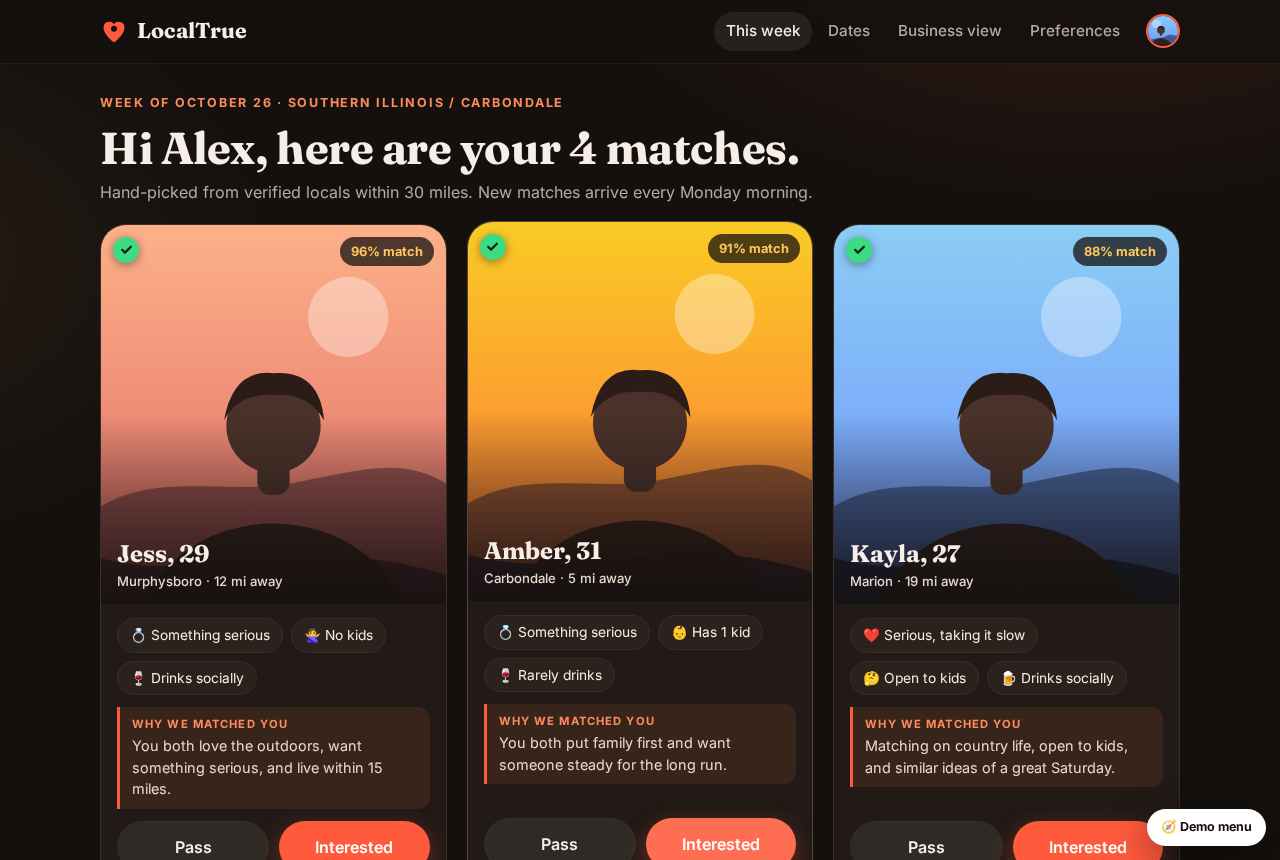
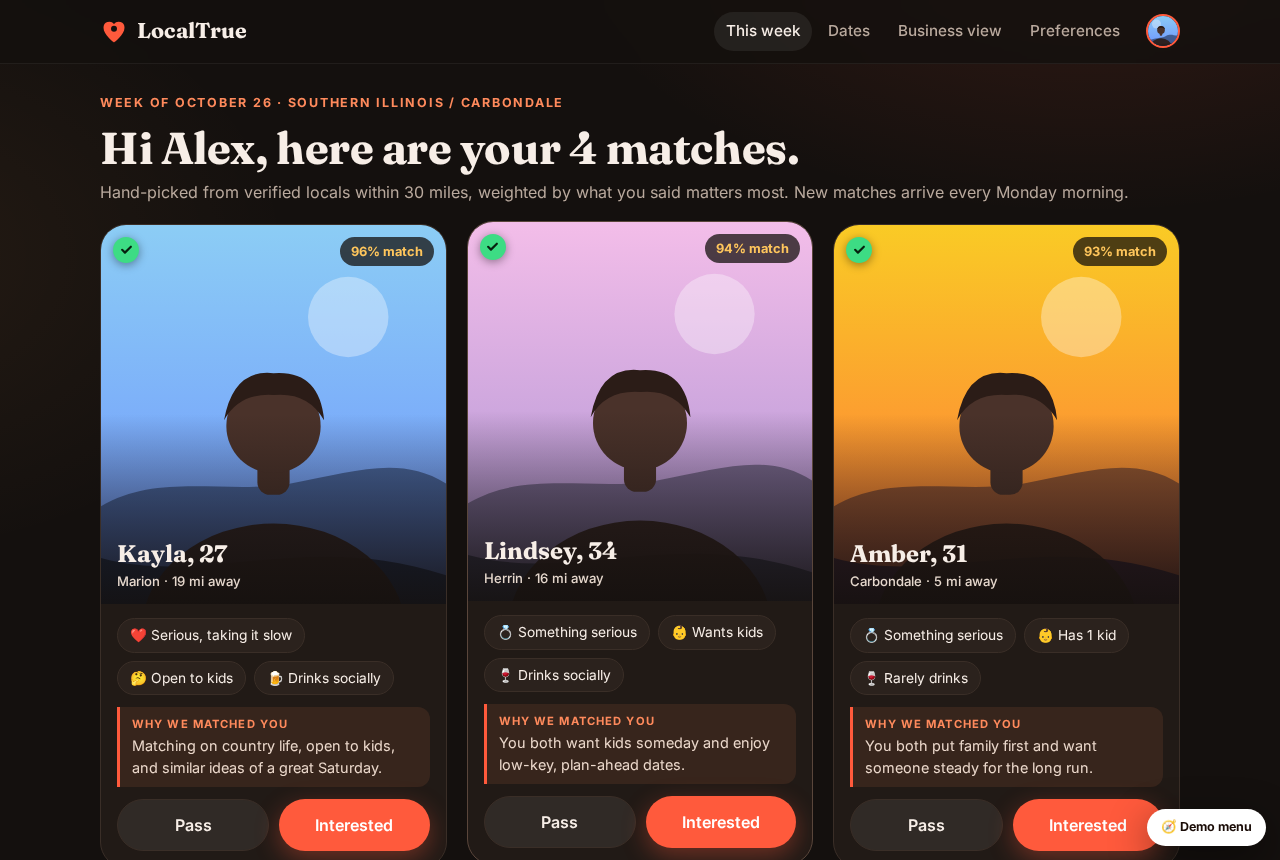
Add per-question importance (dealbreaker/very/somewhat/doesn't matter) with weighted scores

diff --git a/app.js b/app.js
@@ -127,7 +127,53 @@ const today=()=>{const n=new Date();return new Date(n.getFullYear(),n.getMonth()
 const me=()=>state.user.name||'Alex';
 const other=()=>person(state.date.withId)||PEOPLE.find(p=>p.g===state.user.interested)||PEOPLE[0];
 const myPhoto=()=>photo(7,1);
-const matchList=()=>PEOPLE.filter(p=>p.g===state.user.interested).sort((a,b)=>b.score-a.score);
+
+const ATTR={jess:{looking:'serious',kids:'none',faith:'spiritual',drinking:'social',smoking:'never'},
+ amber:{looking:'serious',kids:'have',faith:'christian',drinking:'no',smoking:'never'},
+ kayla:{looking:'serious',kids:'open',faith:'christian',drinking:'social',smoking:'never'},
+ lindsey:{looking:'serious',kids:'want',faith:'any',drinking:'social',smoking:'never'},
+ tyler:{looking:'serious',kids:'none',faith:'christian',drinking:'social',smoking:'never'},
+ cody:{looking:'serious',kids:'open',faith:'christian',drinking:'social',smoking:'never'},
+ ben:{looking:'serious',kids:'have',faith:'spiritual',drinking:'no',smoking:'never'},
+ josh:{looking:'casual',kids:'open',faith:'any',drinking:'social',smoking:'occasional'}};
+PEOPLE.forEach(p=>{p.a=ATTR[p.id];});
+PEOPLE.find(p=>p.id==='josh').tags[0]='🙂 Casual, seeing where it goes';
+
+/* ---------- match importance engine ---------- */
+const IMP=[['deal','Dealbreaker'],['very','Very important'],['some','Somewhat'],['none',"Doesn't matter"]];
+const IMP_W={deal:4,very:3,some:1.5,none:0};
+const IMP_DEF={looking:'very',age:'very',distance:'some',kids:'some',faith:'some',drinking:'some',smoking:'some'};
+const Q_LABEL={looking:'What you want',age:'Age',distance:'Distance',kids:'Kids',faith:'Faith',drinking:'Drinking',smoking:'Smoking'};
+const imp=k=>((state.user.imp||{})[k])||IMP_DEF[k];
+const LABELS={looking:{serious:'Something serious',casual:'Casual dating',friends:'Friends first'},kids:{none:"Doesn't want kids",have:'Has kids',want:'Wants kids',open:'Open to kids'},faith:{any:'Open on faith',christian:'Christian',spiritual:'Spiritual',other:'Other faith',none:'Not religious'},drinking:{no:'Rarely drinks',social:'Drinks socially',often:'Drinks regularly'},smoking:{never:'Non-smoker',occasional:'Occasional smoker',yes:'Smoker'}};
+function compat(k,want,has){
+  if(want===has) return 1;
+  const M={
+   looking:{serious:{casual:.2,friends:.5},casual:{serious:.3,friends:.7},friends:{serious:.6,casual:.7}},
+   kids:{none:{have:0,want:0,open:.5},have:{none:0,want:.6,open:.9},want:{none:0,have:.6,open:.8},open:{none:.6,have:.9,want:.9}},
+   drinking:{no:{social:.5,often:0},social:{no:.6,often:.6},often:{no:0,social:.6}},
+   smoking:{never:{occasional:.35,yes:0},occasional:{never:.6,yes:.6},yes:{never:.2,occasional:.6}}};
+  if(k==='faith'){ if(want==='any'||has==='any') return 1; const pair=[want,has].sort().join(); return pair==='christian,spiritual'?.4:pair==='other,spiritual'?.5:0; }
+  return ((M[k]||{})[want]||{})[has]??0;
+}
+function scoreOf(p){
+  const u=state.user, rows=[];
+  const add=(k,c,mine,theirs)=>rows.push({k,c,imp:imp(k),mine,theirs});
+  add('looking',compat('looking',u.looking,p.a.looking),LABELS.looking[u.looking],LABELS.looking[p.a.looking]);
+  const ad=p.age<u.ageMin?u.ageMin-p.age:p.age>u.ageMax?p.age-u.ageMax:0;
+  add('age',ad===0?1:ad<=2?.5:0,`${u.ageMin}–${u.ageMax}`,`${p.age}`);
+  add('distance',p.dist<=u.distance?1:p.dist<=u.distance*1.3?.4:0,`within ${u.distance} mi`,`${p.dist} mi`);
+  ['kids','faith','drinking','smoking'].forEach(k=>add(k,compat(k,u[k],p.a[k===('kids')?'kids':k]),LABELS[k][u[k]]||'Not important',LABELS[k][p.a[k]]));
+  let w=0,t=0,blocked=[];
+  rows.forEach(r=>{const wt=IMP_W[r.imp]; if(r.imp==='deal'&&r.c<.5) blocked.push(r); w+=wt; t+=wt*r.c;});
+  const fit=w?t/w:1;
+  const score=Math.max(40,Math.min(99,Math.round(fit*72+p.score*.27)));
+  return {score,rows,blocked};
+}
+const matchAll=()=>PEOPLE.filter(p=>p.g===state.user.interested);
+const matchList=()=>matchAll().map(p=>({p,s:scoreOf(p)})).filter(x=>!x.s.blocked.length).sort((a,b)=>b.s.score-a.s.score).map(x=>x.p);
+const hiddenList=()=>matchAll().filter(p=>scoreOf(p).blocked.length);
+
 
 /* ---------- nav ---------- */
 function renderNav(route){
@@ -246,7 +292,9 @@ const OPT={
  faith:[['any','Not important'],['christian','Christian'],['spiritual','Spiritual'],['other','Other faith'],['none','Not religious']],
  drinking:[['no','Never'],['social','Socially'],['often','Regularly']],
  smoking:[['never','Never'],['occasional','Occasionally'],['yes','Yes']]};
-function optGroup(k,big){return `<div class="opts">${OPT[k].map(o=>`<button class="opt ${big?'big':''} ${state.user[k]===o[0]?'on':''}" data-act="pick" data-k="${k}" data-v="${o[0]}">${o[1]}${o[2]?`<small>${o[2]}</small>`:''}</button>`).join('')}</div>`;}
+const IMPS={deal:'Dealbreaker',very:'Very',some:'Somewhat',none:"Doesn't matter"};
+function impRow(k){const cur=imp(k);return `<div class="imp"><span class="lbl">How important is it that this matches?</span><div class="seg" role="group">${IMP.map(([v,l])=>`<button class="${cur===v?'on '+v:''}" data-act="imp" data-k="${k}" data-v="${v}">${v==='very'?'Very important':l}</button>`).join('')}</div></div>`;}
+function optGroup(k,big){return `<div class="opts">${OPT[k].map(o=>`<button class="opt ${big?'big':''} ${state.user[k]===o[0]?'on':''}" data-act="pick" data-k="${k}" data-v="${o[0]}">${o[1]}${o[2]?`<small>${o[2]}</small>`:''}</button>`).join('')}</div>${impRow(k)}`;}
 function pOnboard(){
   const u=state.user, st=ob.step, N=4;
   let b='';
@@ -256,11 +304,11 @@ function pOnboard(){
     <div class="q">I'm looking for…</div>${optGroup('looking',true)}`;
   if(st===2) b=`<h2 style="font-size:1.9rem">Age &amp; distance</h2>
     <div class="q">Age range <span class="bigval" id="ageout" style="margin-left:8px">${u.ageMin}–${u.ageMax}</span></div>
-    <div class="dual"><div class="track"></div><div class="fill" id="agefill"></div><input type="range" min="18" max="80" value="${u.ageMin}" id="ageMin"><input type="range" min="18" max="80" value="${u.ageMax}" id="ageMax"></div>
+    <div class="dual"><div class="track"></div><div class="fill" id="agefill"></div><input type="range" min="18" max="80" value="${u.ageMin}" id="ageMin"><input type="range" min="18" max="80" value="${u.ageMax}" id="ageMax"></div>${impRow('age')}
     <div class="q">Distance <span class="bigval" id="distout" style="margin-left:8px">${u.distance} mi</span></div>
-    <input type="range" min="5" max="100" step="5" value="${u.distance}" id="dist"><div class="small muted" style="margin-top:6px">Small-town friendly: most of your matches will be within 30 miles.</div>`;
+    <input type="range" min="5" max="100" step="5" value="${u.distance}" id="dist"><div class="small muted" style="margin-top:6px">Small-town friendly: most of your matches will be within 30 miles.</div>${impRow('distance')}`;
   if(st===3) b=`<h2 style="font-size:1.9rem">About you &amp; what matters</h2>
-    <div class="q">Kids</div>${optGroup('kids')}<div class="q">Faith</div>${optGroup('faith')}<div class="q">Drinking</div>${optGroup('drinking')}<div class="q">Smoking</div>${optGroup('smoking')}`;
+    <p class="muted small" style="margin-top:6px">Under each question, tell us how much it matters. <b style="color:var(--text)">Dealbreakers</b> hide people who don't fit; the rest weight your match scores.</p><div class="q">Kids</div>${optGroup('kids')}<div class="q">Faith</div>${optGroup('faith')}<div class="q">Drinking</div>${optGroup('drinking')}<div class="q">Smoking</div>${optGroup('smoking')}`;
   if(st===4) b=`<h2 style="font-size:1.9rem">Choose your region</h2><p class="muted" style="margin-top:6px">You'll be matched with verified people in this area. Regions marked soon let you join the waitlist.</p>
     <div class="grid" style="margin-top:18px;gap:10px">${REGIONS.map(r=>`<button class="region" style="${u.region===r.id?'border-color:var(--accent);background:rgba(255,90,60,.1)':''}" data-act="pick" data-k="region" data-v="${r.id}"><span class="dot" style="background:${r.status==='open'?'var(--green)':'var(--amber)'}"></span><span><span class="nm">${r.name}</span><br><span class="st">${r.towns}</span></span><span class="tag ${r.status==='open'?'open':'wl'}">${r.status==='open'?'Open now':'Waitlist'}</span></button>`).join('')}</div>`;
   return `<div class="auth"><div class="narrow" style="max-width:560px"><div class="progress">${Array.from({length:N},(_,i)=>`<i class="${st>i?'on':''}"></i>`).join('')}</div>
@@ -276,6 +324,13 @@ function bindOnboard(){
   if(d) d.oninput=()=>{state.user.distance=+d.value;$('#distout').textContent=d.value+' mi';save();};
 }
 
+function lineup(p){
+  const sc=scoreOf(p), mark=c=>c>=.85?['✓','ok']:c>=.5?['~','mid']:['✕','no'];
+  const rows=sc.rows.filter(r=>r.imp!=='none');
+  const skipped=sc.rows.filter(r=>r.imp==='none').map(r=>Q_LABEL[r.k]).join(', ');
+  return `<div class="psec"><h4>How you line up</h4><div class="lineup">${rows.map(r=>{const m=mark(r.c);return `<div class="lu ${m[1]}"><i>${m[0]}</i><div><b>${Q_LABEL[r.k]}</b><span class="small muted"> · you: ${esc(r.mine)} · ${esc(p.name)}: ${esc(r.theirs)}</span></div><em class="impt ${r.imp}">${IMPS[r.imp]}</em></div>`}).join('')}</div>${skipped?`<div class="small muted" style="margin-top:8px">Not counted (you said it doesn't matter): ${skipped}.</div>`:''}<a class="small accent" href="#/onboarding" style="display:inline-block;margin-top:8px">Change what matters to you →</a></div>`;
+}
+
 /* ---------- matches ---------- */
 function mCard(p){
   const sw=state.swipes[p.id], matched=state.matched[p.id];
@@ -283,7 +338,7 @@ function mCard(p){
     : sw==='interested'?`<div class="status int">❤ Interested · waiting on ${p.name}</div>`
     : sw==='pass'?`<div class="status pass">Passed</div>`
     : `<div class="acts"><button class="btn ghost" data-act="pass" data-id="${p.id}">Pass</button><button class="btn primary" data-act="like" data-id="${p.id}">Interested</button></div>`;
-  return `<article class="mcard"><a class="ph" href="#/profile/${p.id}"><img src="${photo(p.seed,0)}" alt="${p.name}">${vcheck}<span class="score">${p.score}% match</span><span class="nm">${p.name}, ${p.age}<small>${p.town} · ${p.dist} mi away</small></span></a>
+  return `<article class="mcard"><a class="ph" href="#/profile/${p.id}"><img src="${photo(p.seed,0)}" alt="${p.name}">${vcheck}<span class="score">${scoreOf(p).score}% match</span><span class="nm">${p.name}, ${p.age}<small>${p.town} · ${p.dist} mi away</small></span></a>
    <div class="bd"><div class="tagrow" style="margin:0">${p.tags.slice(0,3).map(t=>`<span class="chip">${t}</span>`).join('')}</div>
    <div class="why"><b>Why we matched you</b>${esc(p.why)}</div>${act}</div></article>`;
 }
@@ -295,7 +350,9 @@ function pMatches(){
     dt.stage==='proposed'?`<div class="banner"><div style="font-size:1.8rem">📅</div><div style="flex:1"><b>Date proposal in progress with ${esc(person(dt.withId).name)}</b></div><a class="btn primary sm" href="#/schedule">Open</a></div>`:'';
   const monday=new Date(today().getTime()-((today().getDay()+6)%7)*864e5).toLocaleDateString('en-US',{month:'long',day:'numeric'});
   return `<div class="wrap"><div class="pagehead"><div class="eyebrow">Week of ${monday} · ${esc(regionName(state.user.region))}</div>
-   <h2>Hi ${esc(me())}, here are your ${list.length} matches.</h2><p class="muted" style="margin-top:8px">Hand-picked from verified locals within ${state.user.distance} miles. New matches arrive every Monday morning.</p>${dateBanner}</div>
+   <h2>Hi ${esc(me())}, here ${list.length===1?'is your 1 match':'are your '+list.length+' matches'}.</h2><p class="muted" style="margin-top:8px">Hand-picked from verified locals within ${state.user.distance} miles, weighted by what you said matters most. New matches arrive every Monday morning.</p>${dateBanner}</div>
+   ${hiddenList().length?`<div class="hidenote">🚫 ${hiddenList().length} ${hiddenList().length===1?'person was':'people were'} hidden by your dealbreakers (${[...new Set(hiddenList().flatMap(p=>scoreOf(p).blocked.map(r=>Q_LABEL[r.k])))].join(', ')}). <a class="accent" href="#/onboarding">Review</a></div>`:''}
+   ${list.length?'':`<div class="card center" style="margin-bottom:20px"><b>No matches fit your dealbreakers this week.</b><p class="muted small" style="margin-top:6px">Try loosening one on the <a class="accent" href="#/onboarding">preferences page</a>.</p></div>`}
    <div class="mgrid">${list.map(p=>mCard(p)).join('')}</div>
    <div class="card center" style="margin-bottom:50px"><b>That's your week.</b><p class="muted small" style="margin-top:4px">Want to look around? <a class="accent" href="#/matches" data-act="browse">Browse everyone in your region</a> (verified members only).</p></div></div>`;
 }
@@ -315,11 +372,13 @@ function pProfile(id){
       <div class="dots" id="dots">${imgs.map((_,i)=>`<i class="${i===0?'on':''}"></i>`).join('')}</div>
       <button class="nav l" data-act="car" data-d="-1" aria-label="Previous photo">‹</button><button class="nav r" data-act="car" data-d="1" aria-label="Next photo">›</button></div>
     <div>
-      <div class="row" style="gap:10px;margin-bottom:6px">${vbadge('ID Verified · 18+')}<span class="chip amber">${p.score}% match</span></div>
+      <div class="row" style="gap:10px;margin-bottom:6px">${vbadge('ID Verified · 18+')}<span class="chip amber">${scoreOf(p).score}% match</span></div>
       <div class="pname">${p.name}, <span>${p.age}</span></div>
       <div class="muted" style="margin-top:6px">📍 ${p.town}, IL · ${p.dist} miles away</div>
       <div class="tagrow">${p.tags.map(t=>`<span class="chip">${t}</span>`).join('')}</div>
       <div class="why" style="margin:6px 0 4px"><b>Why we matched you</b>${esc(p.why)}</div>
+      ${scoreOf(p).blocked.length?`<div class="banner" style="margin:10px 0;border-color:#ff5a3c"><div class="small"><b>Outside your dealbreakers:</b> ${scoreOf(p).blocked.map(r=>Q_LABEL[r.k]).join(', ')}. ${esc(p.name)} wouldn't normally show up in your matches.</div></div>`:''}
+      ${lineup(p)}
       ${p.prompts.map(q=>`<div class="prompt"><small>${esc(q[0])}</small><p>${esc(q[1])}</p></div>`).join('')}
       <div class="psec"><h4>Interests</h4><div class="tagrow" style="margin:0">${p.interests.map(i=>`<span class="chip on">${i}</span>`).join('')}</div></div>
       <div class="card small muted" style="margin-top:24px">🔒 ${matched?`You and ${p.name} are a match. Pick a local spot and propose some times.`:`When you both tap Interested, “Schedule a date” unlocks. No chatting required to get to a first date.`}</div>
@@ -548,6 +607,7 @@ document.addEventListener('click',e=>{
    case 'vnext': verify.step++; render(); return;
    case 'vback': verify.step--; render(); return;
    case 'verified': state.user.verified=true; save(); return;
+   case 'imp': state.user.imp=Object.assign({},state.user.imp||{}); state.user.imp[D.k]=D.v; save(); render(); return;
    case 'pick': state.user[D.k]=D.v; save(); render(); return;
    case 'obnext': if(ob.step<4){ob.step++;render();} else {state.user.onboarded=true;save();ob.step=1;location.hash='#/matches';} return;
    case 'obback': ob.step--; render(); return;

diff --git a/styles.css b/styles.css
@@ -298,3 +298,21 @@ input[type=range]{accent-color:var(--accent);width:100%}
 .switch.on{background:var(--accent)}.switch.on::after{left:23px}
 .setrow{display:flex;justify-content:space-between;align-items:center;padding:12px 0;border-bottom:1px solid var(--line);gap:12px}
 .setrow:last-child{border:0}
+
+/* importance selector */
+.imp{display:flex;align-items:center;flex-wrap:wrap;gap:6px 10px;margin:9px 0 2px}
+.imp .lbl{font-size:.72rem;color:var(--muted);letter-spacing:.01em}
+.imp .seg{display:inline-flex;background:var(--bg);border:1px solid var(--line);border-radius:999px;padding:2px;flex-wrap:wrap}
+.imp .seg button{font-size:.72rem;padding:4px 10px;border-radius:999px;color:var(--muted);font-weight:600;white-space:nowrap}
+.imp .seg button:hover{color:var(--text)}
+.imp .seg button.on{background:var(--card2);color:var(--text);box-shadow:0 0 0 1px var(--muted) inset}
+.imp .seg button.on.deal{background:rgba(255,90,60,.2);color:#ff9a86;box-shadow:0 0 0 1px var(--accent) inset}
+.imp .seg button.on.very{background:rgba(255,198,92,.15);color:var(--amber);box-shadow:0 0 0 1px var(--amber) inset}
+.lineup{display:grid;gap:6px}
+.lu{display:flex;align-items:center;gap:10px;background:var(--card);border:1px solid var(--line);border-radius:12px;padding:8px 12px;font-size:.88rem}
+.lu i{font-style:normal;width:22px;height:22px;border-radius:50%;display:grid;place-items:center;font-size:.75rem;font-weight:800;flex:none}
+.lu.ok i{background:rgba(61,220,132,.18);color:var(--green)} .lu.mid i{background:rgba(255,198,92,.18);color:var(--amber)} .lu.no i{background:rgba(255,90,60,.2);color:#ff7a62}
+.lu>div{flex:1;min-width:0}
+.impt{font-style:normal;font-size:.66rem;text-transform:uppercase;letter-spacing:.06em;color:var(--muted);border:1px solid var(--line);border-radius:999px;padding:2px 8px;white-space:nowrap}
+.impt.deal{color:#ff9a86;border-color:var(--accent)} .impt.very{color:var(--amber);border-color:rgba(255,198,92,.5)}
+.hidenote{background:rgba(255,90,60,.08);border:1px dashed rgba(255,90,60,.4);border-radius:14px;padding:10px 14px;margin:14px 0;font-size:.88rem}

diff --git a/imp_test.py b/imp_test.py
@@ -1,0 +1,23 @@
+from playwright.sync_api import sync_playwright
+URL="file:///workspace/dating-prototype/index.html"
+SH="/workspace/dating-prototype/shots/"
+with sync_playwright() as p:
+    b=p.chromium.launch(); pg=b.new_page(viewport={'width':1100,'height':900}); errs=[]
+    pg.on("pageerror",lambda e:errs.append(str(e)))
+    pg.goto(URL); pg.evaluate("localStorage.clear()"); pg.goto(URL+"#/login"); pg.click("button[type=submit]"); pg.wait_for_timeout(300)
+    pg.goto(URL+"#/onboarding"); pg.wait_for_timeout(300)
+    pg.click("text=Next"); pg.click("text=Next")
+    print("imp rows:",pg.locator(".imp").count())
+    pg.click("button.opt:has-text(\"Don't want kids\")")
+    pg.locator(".imp").nth(0).locator("button:has-text('Dealbreaker')").click(); pg.wait_for_timeout(200)
+    print("deal on:",pg.locator(".imp").nth(0).locator("button.on").inner_text())
+    pg.screenshot(path=SH+"10-importance.png")
+    pg.click("text=Next"); pg.click("text=See my matches"); pg.wait_for_timeout(400)
+    print("cards:",pg.locator(".mcard").count(), pg.locator(".hidenote").inner_text())
+    print([x for x in pg.locator(".mcard .nm").all_inner_texts()], pg.locator(".score").all_inner_texts())
+    pg.screenshot(path=SH+"11-matches-weighted.png")
+    pg.goto(URL+"#/profile/amber"); pg.wait_for_timeout(300)
+    print("blocked banner:", "Outside your dealbreakers" in pg.inner_text("body"))
+    pg.goto(URL+"#/profile/jess"); pg.wait_for_timeout(300); print(pg.locator(".lu").count(),"lineup rows")
+    pg.screenshot(path=SH+"12-profile-lineup.png",full_page=True)
+    print(errs)

diff --git a/test_flow.py b/test_flow.py
@@ -38,7 +38,7 @@ with sync_playwright() as p:
     pg.wait_for_timeout(300); chk("#/matches" in pg.url,"matches")
     chk(pg.locator(".mcard").count()==4,"4 match cards")
     pg.screenshot(path=SH+"3-matches.png")
-    pg.click("a.ph >> nth=0"); pg.wait_for_timeout(400)
+    pg.click("a.ph[href$=jess]"); pg.wait_for_timeout(400)
     chk("#/profile/jess" in pg.url,"profile jess")
     chk(pg.is_visible(".why"),"why matched")
     pg.screenshot(path=SH+"4-profile.png",full_page=False)
@@ -61,7 +61,7 @@ with sync_playwright() as p:
     pg.click(".viewtoggle button:has-text('Their view')"); pg.wait_for_timeout(200)
     chk(pg.locator("button:has-text('Accept this one')").count()==3,"their view 3 options")
     pg.click("text=Counter with my own"); pg.wait_for_timeout(200)
-    pg.locator(".day:not([disabled]):not(.empty)").nth(4).click()
+    pg.locator(".day:not([disabled]):not(.empty)").nth(3).click()
     pg.locator(".slot:not([disabled])").nth(1).click()
     pg.locator(".slot:not([disabled])").nth(2).click()
     pg.wait_for_timeout(2800); pg.evaluate("scrollTo({top:0,behavior:\"instant\"})"); pg.wait_for_timeout(300); pg.screenshot(path=SH+"6-their-counter.png")
